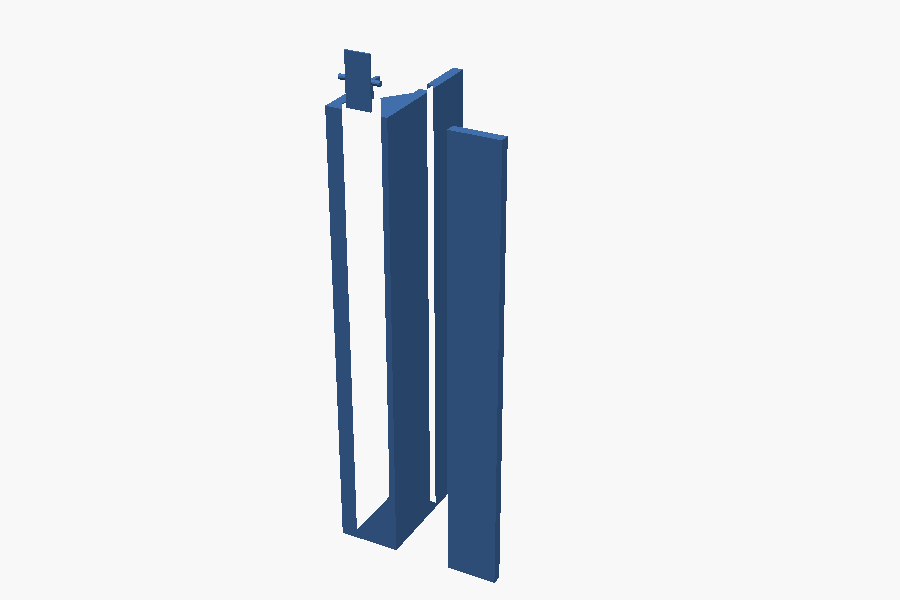
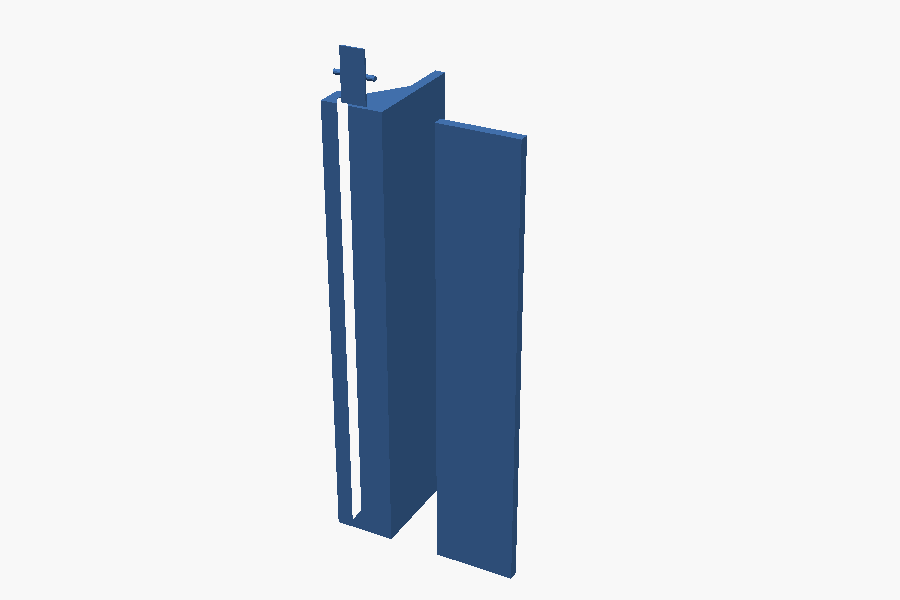
LED : le diffuseur suit l'inclinaison du ruban
Question juste de l'utilisateur, et c'etait un defaut. Un diffuseur
horizontal au-dessus d'un ruban penche laisse un ecart qui va de 3 mm
d'un bord a 12 de l'autre : points chauds d'un cote, terne de l'autre.
Il est desormais PARALLELE au ruban, l'ecart est le meme partout et se
mesure perpendiculairement.

Effet de bord bienvenu : le profil raccourcit, 16.7 mm de haut a 55
degres au lieu de 21.4, parce que le diffuseur suit la rampe au lieu
de coiffer son point haut. Et sa largeur ne bouge presque plus d'un
angle a l'autre - 12.3 a 45 degres, 12.5 a 55 - puisqu'elle se deduit
de la longueur de rampe.

La section se decrit maintenant par huit points au lieu d'un empilement
de rectangles a soustraire.

Verifie de 0 a 65 degres : Simple yes, 2 volumes.

Changed region(s): [[0.3422, 0.06, 0.5911, 0.99]]

diff --git a/led-builder.html b/led-builder.html
@@ -244,7 +244,7 @@
     <div class="bb-stats" id="dstats"></div>
     <div id="dnotes"></div>
     <div class="bb-figs">
-      <div><div id="figSec"></div><div class="bb-cap">Coupe · canal collé à plat · le ruban penché sur sa rampe · mur à gauche, volée à droite</div></div>
+      <div><div id="figSec"></div><div class="bb-cap">Coupe · canal collé à plat · ruban et diffuseur parallèles sur la rampe · mur à gauche</div></div>
       <div><div id="figJoin"></div><div class="bb-cap">Raccord · deux segments emboîtés</div></div>
     </div>
   </div>
@@ -281,7 +281,7 @@ const CHAMPS = [
   ]],
   ['gDif', [
     ['visor',     'Visière',      0, 40, 0.5],
-    ['head',      'Garde au-dessus', 0, 20, 0.5],
+    ['head',      'Écart au diffuseur', 0.5, 20, 0.5],
     ['diff_t',    'Épaisseur',  0.6,  5, 0.2],
     ['diff_grip', 'Rainures',   0.4,  3, 0.1],
     ['diff_clr',  'Jeu',          0,  1, 0.05],
@@ -299,7 +299,7 @@ const CHAMPS = [
 
 const DEFAUT = () => ({
   strip_w: 10, angle: 45, strip_clr: 0.6,
-  wall_t: 1.6, base_t: 1.6, visor: 6, head: 2,
+  wall_t: 1.6, base_t: 1.6, visor: 6, head: 3,
   diff_t: 1.6, diff_grip: 1.0, diff_clr: 0.25,
   seg_len: 200, join_len: 8, join_clr: 0.25,
 });
@@ -320,25 +320,26 @@ try { const s = JSON.parse(localStorage.getItem('ledbuilder') || 'null');
 // ---------------------------------------------------------------
 function cotes() {
   const e = etat;
-  const a = rad(e.angle);
-  const wi = e.strip_w * Math.cos(a) + e.strip_clr;   // largeur intérieure
-  const rise = e.strip_w * Math.sin(a);               // dénivelé du ruban
+  const a = rad(e.angle), C = Math.cos(a), S = Math.sin(a);
+  const wi = e.strip_w * C + e.strip_clr;      // largeur intérieure
+  const rise = wi * Math.tan(a);               // dénivelé de la rampe
   const bw = wi + 2 * e.wall_t;
-  const hDif = e.base_t + rise + e.head;
-  const hLo = hDif + e.diff_t;
-  const hHi = hLo + e.visor;
-  // le ruban, sur sa rampe
-  const P0 = [e.wall_t, e.base_t];                    // bord bas, côté mur
-  const P1 = [e.wall_t + wi, e.base_t + rise];        // bord haut, côté volée
+  // repère de la rampe : d le long, n perpendiculaire
+  const dv = [C, S], nv = [-S, C];
+  const add = (p, v, k) => [p[0] + v[0] * k, p[1] + v[1] * k];
+  const P0 = [e.wall_t, e.base_t];             // bas de rampe, côté mur
+  const P1 = [e.wall_t + wi, e.base_t + rise]; // haut de rampe, côté volée
+  // Le diffuseur est PARALLÈLE au ruban : l'écart est le même partout.
+  // Horizontal, il passait de `head` d'un bord à `head + rise` de
+  // l'autre — points chauds d'un côté, terne de l'autre.
+  const L = add(P0, nv, e.head + e.diff_t);    // sommet de la joue basse
+  const R = add(P1, nv, e.head + e.diff_t + e.visor);  // de la visière
+  const lgDif = wi / C + 2 * (e.diff_grip - e.diff_clr);
   // rayons limites : d'un bord du ruban par-dessus la lèvre opposée
-  const A1 = [bw - e.wall_t, hHi];                    // arête de la visière
-  const B1 = [e.wall_t, hLo];                         // arête de la joue basse
-  // angle depuis la VERTICALE ; positif = penché vers le mur (-x)
+  const A1 = [bw - e.wall_t, R[1]], B1 = [e.wall_t, L[1]];
   const ang = (p, q) => deg(Math.atan2(p[0] - q[0], q[1] - p[1]));
-  // aVolee : de combien le faisceau déborde par-dessus la visière, du
-  // côté d'où l'on regarde. C'est LE chiffre de l'éblouissement, et il
-  // se lit en positif — plus il est petit, mieux on est abrité.
-  return { wi, rise, bw, hDif, hLo, hHi, P0, P1, A0: P0, A1, B0: P1, B1,
+  return { wi, rise, bw, dv, nv, add, P0, P1, L, R, lgDif,
+           hHi: R[1], hLo: L[1], A0: P0, A1, B0: P1, B1,
            aVolee: -ang(P0, A1), aOpen: ang(P1, B1) };
 }
 
@@ -348,8 +349,8 @@ function alertes(c) {
     out.push(['dur', `Rainures de ${e.diff_grip} pour un jeu de ${e.diff_clr} : le diffuseur ne tiendrait pas.`]);
   if (c.wi < e.strip_w * Math.cos(rad(e.angle)))
     out.push(['dur', `Le ruban ne rentre pas : il occupe ${r1(e.strip_w * Math.cos(rad(e.angle)))} de large une fois penché.`]);
-  if (e.head < 1)
-    out.push(['mou', `Garde de ${e.head} au-dessus du ruban : les LED toucheront le diffuseur et feront des points chauds.`]);
+  if (e.head < 2)
+    out.push(['mou', `Écart de ${e.head} sous le diffuseur : les LED sont trop près, on verra les points un par un.`]);
   if (c.aVolee > 30)
     out.push(['mou', `Le faisceau déborde de ${r1(c.aVolee)}° vers la volée : à cet angle on regarde les LED en face. Rallonge la visière ou incline davantage le ruban.`]);
   if (e.join_len > 0 && e.join_len < 5)
@@ -366,13 +367,11 @@ function figSec(c) {
   const e = etat;
   // contour : semelle + joue basse + visière, creusé par la rampe
   const ext = [[0, 0], [c.bw, 0], [c.bw, c.hHi], [c.bw - e.wall_t, c.hHi],
-               [c.bw - e.wall_t, e.base_t + c.rise], [e.wall_t, e.base_t],
-               [e.wall_t, c.hLo], [0, c.hLo]];
-  const ruban = [c.P0, c.P1,
-                 [c.P1[0] - 1.4 * Math.sin(rad(e.angle)), c.P1[1] + 1.4 * Math.cos(rad(e.angle))],
-                 [c.P0[0] - 1.4 * Math.sin(rad(e.angle)), c.P0[1] + 1.4 * Math.cos(rad(e.angle))]];
-  const dif = [[e.wall_t - e.diff_grip, c.hDif], [c.bw - e.wall_t + e.diff_grip, c.hDif],
-               [c.bw - e.wall_t + e.diff_grip, c.hDif + e.diff_t], [e.wall_t - e.diff_grip, c.hDif + e.diff_t]];
+               c.P1, c.P0, [e.wall_t, c.hLo], [0, c.hLo]];
+  const ruban = [c.P0, c.P1, c.add(c.P1, c.nv, 1.4), c.add(c.P0, c.nv, 1.4)];
+  const d0 = c.add(c.add(c.P0, c.dv, -e.diff_grip), c.nv, e.head);
+  const d1 = c.add(c.add(c.P1, c.dv, e.diff_grip), c.nv, e.head);
+  const dif = [d0, d1, c.add(d1, c.nv, e.diff_t), c.add(d0, c.nv, e.diff_t)];
   const taille = Math.max(c.bw, c.hHi);
   const L = taille * 2.2;
   const x0 = -taille * 1.1, x1 = c.bw + taille * 0.5;
@@ -474,6 +473,7 @@ function rendre(refaire = true) {
     `<div class="bb-stat"><b>${r1(c.aVolee)}°</b><span>débord vers la volée</span></div>` +
     `<div class="bb-stat"><b>${r1(c.aOpen)}°</b><span>portée vers le mur</span></div>` +
     `<div class="bb-stat"><b>${r1(c.bw)} × ${r1(c.hHi)}</b><span>section, mm</span></div>` +
+    `<div class="bb-stat"><b>${r1(c.lgDif)} mm</b><span>largeur du diffuseur</span></div>` +
     `<div class="bb-stat"><b>${etat.seg_len} mm</b><span>par segment</span></div>`;
   const al = alertes(c);
   $('dnotes').innerHTML = al.map(([k, m]) =>

diff --git a/docs/LED-Profile-Builder.md b/docs/LED-Profile-Builder.md
@@ -22,12 +22,20 @@ its visor.
 |---|---|
 | Tilt | 0° = strip flat, firing straight up; higher aims it at the wall |
 | Visor | how far the tall jaw stands above the diffuser |
-| Headroom | gap between the top of the strip and the diffuser |
+| Gap to diffuser | measured **perpendicular** to the strip |
+
+**The diffuser is parallel to the strip**, not horizontal. Lay it flat
+over a tilted strip and the gap runs from 3 mm at one edge to 12 at
+the other: hot spots on one side, dull on the other. Parallel, the gap
+is the same the whole way across — and the profile ends up shorter
+too, 16.7 mm tall at 55° instead of 21.4.
 
 The inner width is **derived**, not asked for: a strip laid at an angle
 takes `strip_w × cos(angle)` across, so the channel is exactly that
 wide plus the fitting play. Tilt more and the profile gets narrower and
-taller — 10.9 × 18.3 mm at 45°, 9.5 × 21.4 at 55°.
+taller — 10.9 × 16.8 mm at 45°, 9.5 × 16.7 at 55°. The diffuser is
+sized off the ramp, so its width barely moves: 12.3 mm at 45°, 12.5 at
+55°.
 
 ## Reading the section
 
